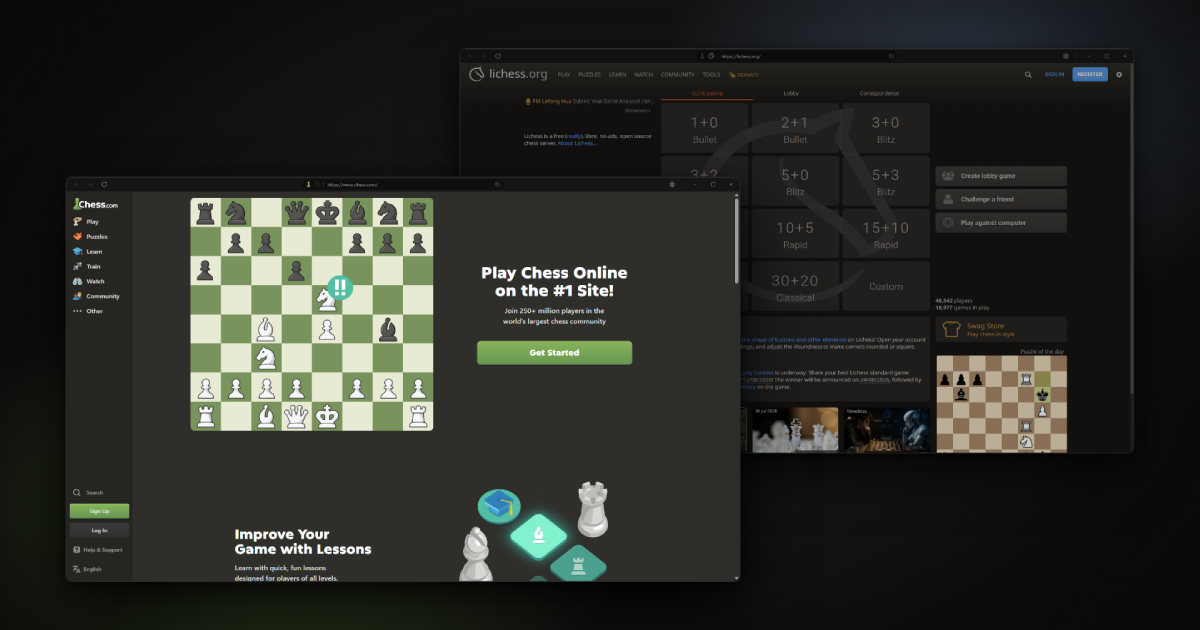
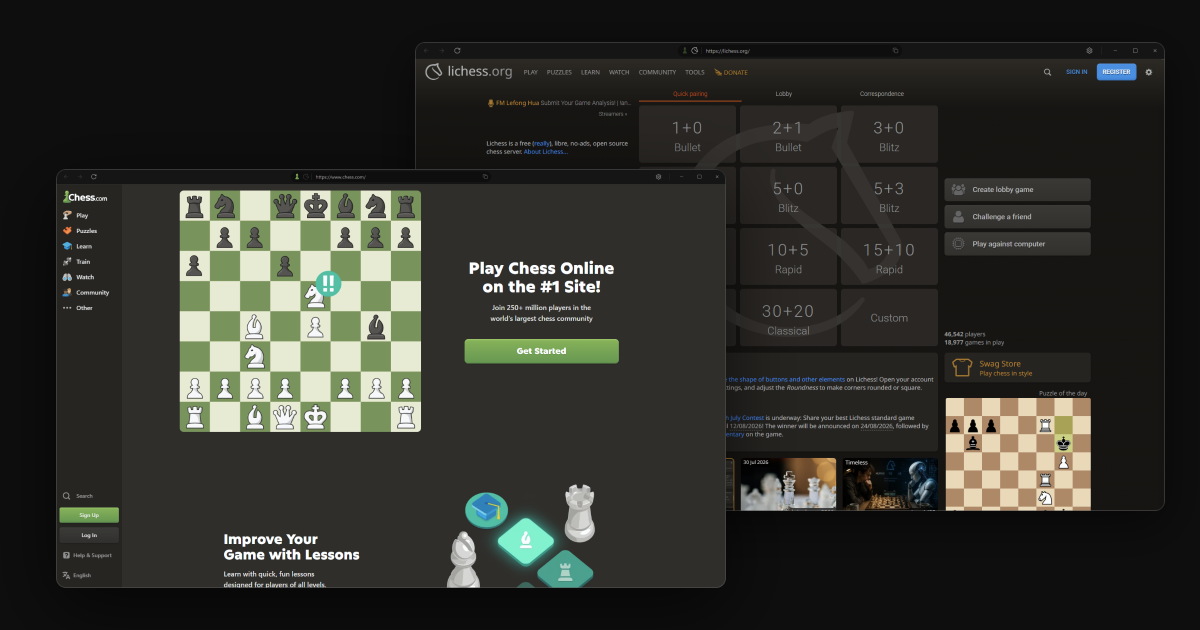
refactor(web): redesign the site with a fluid layout and a screenshot carousel

Changed region(s): [[0.0308, 0.181, 0.925, 0.9349], [0.3392, 0.0, 0.9558, 0.1508], [0.4008, 0.1508, 0.6167, 0.2413]]

diff --git a/apps/web/src/components/Showcase.tsx b/apps/web/src/components/Showcase.tsx
@@ -1,11 +1,24 @@
 import { Expand, X } from 'lucide-react'
-import { useEffect, useRef } from 'react'
+import { useEffect, useRef, useState } from 'react'
 
-const alt =
-  'Chess Desktop showing Chess.com in the front window and Lichess in the window behind it'
+const shots = [
+  {
+    src: '/showcase-chesscom.png',
+    label: 'Chess.com',
+    alt: 'Chess Desktop running Chess.com'
+  },
+  {
+    src: '/showcase-lichess.png',
+    label: 'Lichess',
+    alt: 'Chess Desktop running Lichess'
+  }
+]
 
 export default function Showcase() {
   const lightbox = useRef<HTMLDialogElement>(null)
+  const [active, setActive] = useState(0)
+  const [paused, setPaused] = useState(false)
+  const [expanded, setExpanded] = useState(false)
 
   useEffect(() => {
     const dialog = lightbox.current
@@ -20,50 +33,95 @@ export default function Showcase() {
       }
     }
 
+    const stopExpanded = () => setExpanded(false)
+
     dialog.addEventListener('click', closeOnBackdrop)
-    return () => dialog.removeEventListener('click', closeOnBackdrop)
+    dialog.addEventListener('close', stopExpanded)
+    return () => {
+      dialog.removeEventListener('click', closeOnBackdrop)
+      dialog.removeEventListener('close', stopExpanded)
+    }
   }, [])
+
+  useEffect(() => {
+    if (paused || expanded || window.matchMedia('(prefers-reduced-motion: reduce)').matches) {
+      return
+    }
+
+    const timer = setInterval(() => setActive((active + 1) % shots.length), 5000)
+    return () => clearInterval(timer)
+  }, [paused, expanded, active])
 
   return (
     <>
-      <figure className="m-0 min-h-0 min-w-0">
+      <figure
+        className="rise m-0 w-full min-w-0"
+        style={{ animationDelay: '240ms' }}
+        onMouseEnter={() => setPaused(true)}
+        onMouseLeave={() => setPaused(false)}
+        onFocus={() => setPaused(true)}
+        onBlur={() => setPaused(false)}
+      >
         <button
           type="button"
-          className="group relative block w-full cursor-zoom-in border-0 bg-none p-0 leading-[0] wide:max-h-full"
-          onClick={() => lightbox.current?.showModal()}
+          className="group relative mx-auto block cursor-zoom-in border-0 bg-none p-0 leading-[0]"
+          onClick={() => {
+            setExpanded(true)
+            lightbox.current?.showModal()
+          }}
         >
-          <img
-            className="block h-auto w-full rounded-xl border border-line object-contain shadow-[0_28px_70px_rgba(0,0,0,0.6)] transition-colors group-hover:border-line-strong wide:max-h-full"
-            src="/showcase.png"
-            width={1920}
-            height={1050}
-            alt={alt}
-          />
+          <span className="grid">
+            {shots.map((shot, index) => (
+              <img
+                key={shot.src}
+                className={`col-start-1 row-start-1 block h-auto max-h-[min(56dvh,560px)] w-auto max-w-full rounded-xl border border-line object-contain transition-opacity duration-500 group-hover:border-line-strong ${index === active ? 'opacity-100' : 'opacity-0'}`}
+                src={shot.src}
+                width={1738}
+                height={1087}
+                alt={shot.alt}
+                aria-hidden={index !== active}
+              />
+            ))}
+          </span>
 
-          <span className="pointer-events-none absolute right-3 bottom-3 inline-flex items-center gap-1.5 rounded-full bg-canvas/85 px-3 py-1.5 font-mono text-[11.5px] leading-snug backdrop-blur-sm transition-opacity wide:opacity-0 wide:group-hover:opacity-100 wide:group-focus-visible:opacity-100">
+          <span className="pointer-events-none absolute right-3 bottom-3 inline-flex items-center gap-1.5 rounded-full bg-canvas/85 px-3 py-1.5 font-mono text-[11.5px] leading-snug backdrop-blur-sm transition-opacity md:opacity-0 md:group-hover:opacity-100 md:group-focus-visible:opacity-100">
             <Expand size={12} aria-hidden="true" />
             View full size
           </span>
         </button>
+
+        <figcaption className="mt-3 flex items-center justify-center gap-5 font-mono text-[12px]">
+          {shots.map((shot, index) => (
+            <button
+              key={shot.label}
+              type="button"
+              aria-pressed={index === active}
+              className={`cursor-pointer border-0 bg-transparent p-1 transition-colors ${index === active ? 'text-ink' : 'text-ink-muted hover:text-ink'}`}
+              onClick={() => setActive(index)}
+            >
+              {shot.label}
+            </button>
+          ))}
+        </figcaption>
       </figure>
 
       <dialog
         ref={lightbox}
-        className="m-auto max-h-dvh max-w-full overflow-visible border-0 bg-transparent p-0 backdrop:bg-black/85 backdrop:backdrop-blur-sm wide:max-h-[92dvh] wide:max-w-[92vw]"
+        className="m-auto max-h-dvh max-w-full overflow-visible border-0 bg-transparent p-0 backdrop:bg-black/85 backdrop:backdrop-blur-sm md:max-h-[92dvh] md:max-w-[92vw]"
       >
         <img
-          className="block max-h-dvh w-auto max-w-full object-contain wide:max-h-[92dvh] wide:max-w-[92vw] wide:rounded-xl wide:border wide:border-line"
-          src="/showcase.png"
-          width={1920}
-          height={1050}
-          alt={alt}
+          className="block max-h-dvh w-auto max-w-full object-contain md:max-h-[92dvh] md:max-w-[92vw] md:rounded-xl md:border md:border-line"
+          src={shots[active].src}
+          width={1738}
+          height={1087}
+          alt={shots[active].alt}
         />
 
         <form method="dialog">
           <button
             type="submit"
             aria-label="Close"
-            className="fixed top-3.5 right-3.5 grid size-10 cursor-pointer place-items-center rounded-full border border-line bg-canvas/80 p-0 text-ink backdrop-blur-sm transition-colors hover:border-line-strong hover:bg-canvas wide:absolute wide:top-3 wide:right-3 wide:size-9"
+            className="fixed top-3.5 right-3.5 grid size-10 cursor-pointer place-items-center rounded-full border border-line bg-canvas/80 p-0 text-ink backdrop-blur-sm transition-colors hover:border-line-strong hover:bg-canvas md:absolute md:top-3 md:right-3 md:size-9"
           >
             <X size={18} aria-hidden="true" />
           </button>

diff --git a/apps/web/src/components/Hero.tsx b/apps/web/src/components/Hero.tsx
@@ -6,8 +6,8 @@ export default function Hero() {
   const stars = useGitHubStars()
 
   return (
-    <section className="min-w-0">
-      <div className="flex items-center gap-2.5">
+    <section className="flex w-full min-w-0 flex-col items-center">
+      <div className="rise flex items-center gap-2.5">
         <img
           className="block shrink-0 rounded-md"
           src="/favicon-32x32.png"
@@ -15,20 +15,29 @@ export default function Hero() {
           height={28}
           alt=""
         />
-        <span className="font-bold font-display text-[17px] tracking-tight">{site.name}</span>
+        <span className="font-display font-semibold text-[16px] tracking-tight">{site.name}</span>
       </div>
 
-      <h1 className="mt-6 max-w-[16ch] text-balance font-bold font-display text-[clamp(1.9rem,4.2vw,3rem)] leading-[1.08] tracking-[-0.035em]">
+      <h1
+        className="rise mt-6 max-w-[20ch] text-balance font-bold font-display text-[clamp(2rem,1.05rem+4.2vw,3.25rem)] leading-[1.06] tracking-[-0.035em]"
+        style={{ animationDelay: '60ms' }}
+      >
         {site.tagline}
       </h1>
 
-      <p className="mt-5 max-w-[46ch] text-[clamp(0.98rem,1.3vw,1.06rem)] text-ink-muted">
+      <p
+        className="rise mt-5 max-w-[52ch] text-pretty text-[clamp(1rem,0.95rem+0.35vw,1.125rem)] text-ink-muted"
+        style={{ animationDelay: '120ms' }}
+      >
         {site.description}
       </p>
 
-      <div className="mt-8 flex flex-wrap items-center gap-3">
+      <div
+        className="rise mt-8 flex w-full max-w-[320px] flex-col gap-3 min-[480px]:w-auto min-[480px]:max-w-none min-[480px]:flex-row"
+        style={{ animationDelay: '180ms' }}
+      >
         <a
-          className="inline-flex items-center gap-2.5 rounded-xl border border-accent bg-accent px-5 py-3 font-semibold text-[15px] text-accent-ink transition-colors hover:border-accent-hover hover:bg-accent-hover"
+          className="inline-flex items-center justify-center gap-2.5 rounded-full border border-accent bg-accent px-6 py-3 font-semibold text-[15px] text-accent-ink transition-colors hover:border-accent-hover hover:bg-accent-hover"
           href={latestRelease}
         >
           <GitHubMark />
@@ -42,7 +51,7 @@ export default function Hero() {
         </a>
 
         <a
-          className="inline-flex items-center gap-2 rounded-xl border border-line bg-surface px-5 py-3 font-medium text-[15px] text-ink transition-colors hover:border-line-strong hover:bg-surface-2"
+          className="inline-flex items-center justify-center gap-2 rounded-full border border-line bg-surface px-6 py-3 font-medium text-[15px] text-ink transition-colors hover:border-line-strong hover:bg-surface-hover"
           href={repository}
         >
           View the source

diff --git a/apps/web/src/index.css b/apps/web/src/index.css
@@ -5,6 +5,7 @@
   --color-canvas: var(--cd-background);
   --color-surface: var(--cd-surface);
   --color-surface-2: var(--cd-surface-raised);
+  --color-surface-hover: var(--cd-surface-hover);
   --color-line: var(--cd-border);
   --color-line-strong: #3d3d3d;
   --color-ink: var(--cd-text);
@@ -19,7 +20,7 @@
   --font-body: "Space Grotesk", "Segoe UI", system-ui, sans-serif;
   --font-mono: "JetBrains Mono", ui-monospace, "Cascadia Mono", Consolas, monospace;
 
-  --breakpoint-wide: 900px;
+  --default-transition-duration: 120ms;
 }
 
 @layer base {
@@ -39,15 +40,9 @@
     min-height: 100dvh;
   }
 
-  @media (min-width: 900px) and (min-height: 620px) {
-    body {
-      height: 100dvh;
-      overflow: hidden;
-    }
-
-    #root {
-      height: 100dvh;
-    }
+  ::selection {
+    background: var(--color-brand);
+    color: var(--color-accent-ink);
   }
 
   :focus-visible {
@@ -59,6 +54,19 @@
 
 @utility shell {
   margin-inline: auto;
-  width: min(1240px, 100%);
-  padding-inline: clamp(20px, 5vw, 48px);
+  width: min(1040px, 100%);
+  padding-inline: clamp(20px, 5vw, 40px);
+}
+
+@utility rise {
+  @media (prefers-reduced-motion: no-preference) {
+    animation: rise 480ms cubic-bezier(0.2, 0.7, 0.3, 1) both;
+  }
+}
+
+@keyframes rise {
+  from {
+    opacity: 0;
+    transform: translateY(10px);
+  }
 }

diff --git a/apps/web/src/components/Footer.tsx b/apps/web/src/components/Footer.tsx
@@ -19,7 +19,7 @@ export default function Footer() {
             height={20}
             alt=""
           />
-          <span className="font-mono text-[13px] text-ink-faint">{site.domain}</span>
+          <span className="font-mono text-[13px] text-ink-muted">{site.domain}</span>
         </div>
 
         <nav className="flex flex-wrap gap-x-6 gap-y-2 text-[14px]">
@@ -32,7 +32,7 @@ export default function Footer() {
       </div>
 
       <div className="shell pb-5">
-        <p className="text-[12px] text-ink-faint">
+        <p className="text-[12px] text-ink-muted">
           Not affiliated with Chess.com or Lichess. All trademarks belong to their owners.
         </p>
       </div>

diff --git a/apps/web/index.html b/apps/web/index.html
@@ -71,7 +71,10 @@
         "applicationCategory": "GameApplication",
         "operatingSystem": "Windows 10, Windows 11, Linux",
         "image": "https://chessdesktop.app/og-image.png",
-        "screenshot": "https://chessdesktop.app/showcase.png",
+        "screenshot": [
+          "https://chessdesktop.app/showcase-chesscom.png",
+          "https://chessdesktop.app/showcase-lichess.png"
+        ],
         "downloadUrl": "https://github.com/vocaldll/chess-desktop/releases/latest",
         "isAccessibleForFree": true,
         "offers": {

diff --git a/apps/web/src/App.tsx b/apps/web/src/App.tsx
@@ -5,7 +5,7 @@ import Showcase from './components/Showcase'
 export default function App() {
   return (
     <>
-      <main className="shell grid min-h-0 flex-1 grid-cols-1 content-center items-center gap-x-[clamp(32px,5vw,72px)] gap-y-[clamp(32px,5vh,56px)] py-[clamp(32px,6vh,64px)] wide:grid-cols-[minmax(0,0.75fr)_minmax(0,1fr)]">
+      <main className="shell flex flex-1 flex-col items-center justify-center gap-y-[clamp(40px,6vh,64px)] py-[clamp(32px,5vh,56px)] text-center">
         <Hero />
         <Showcase />
       </main>
